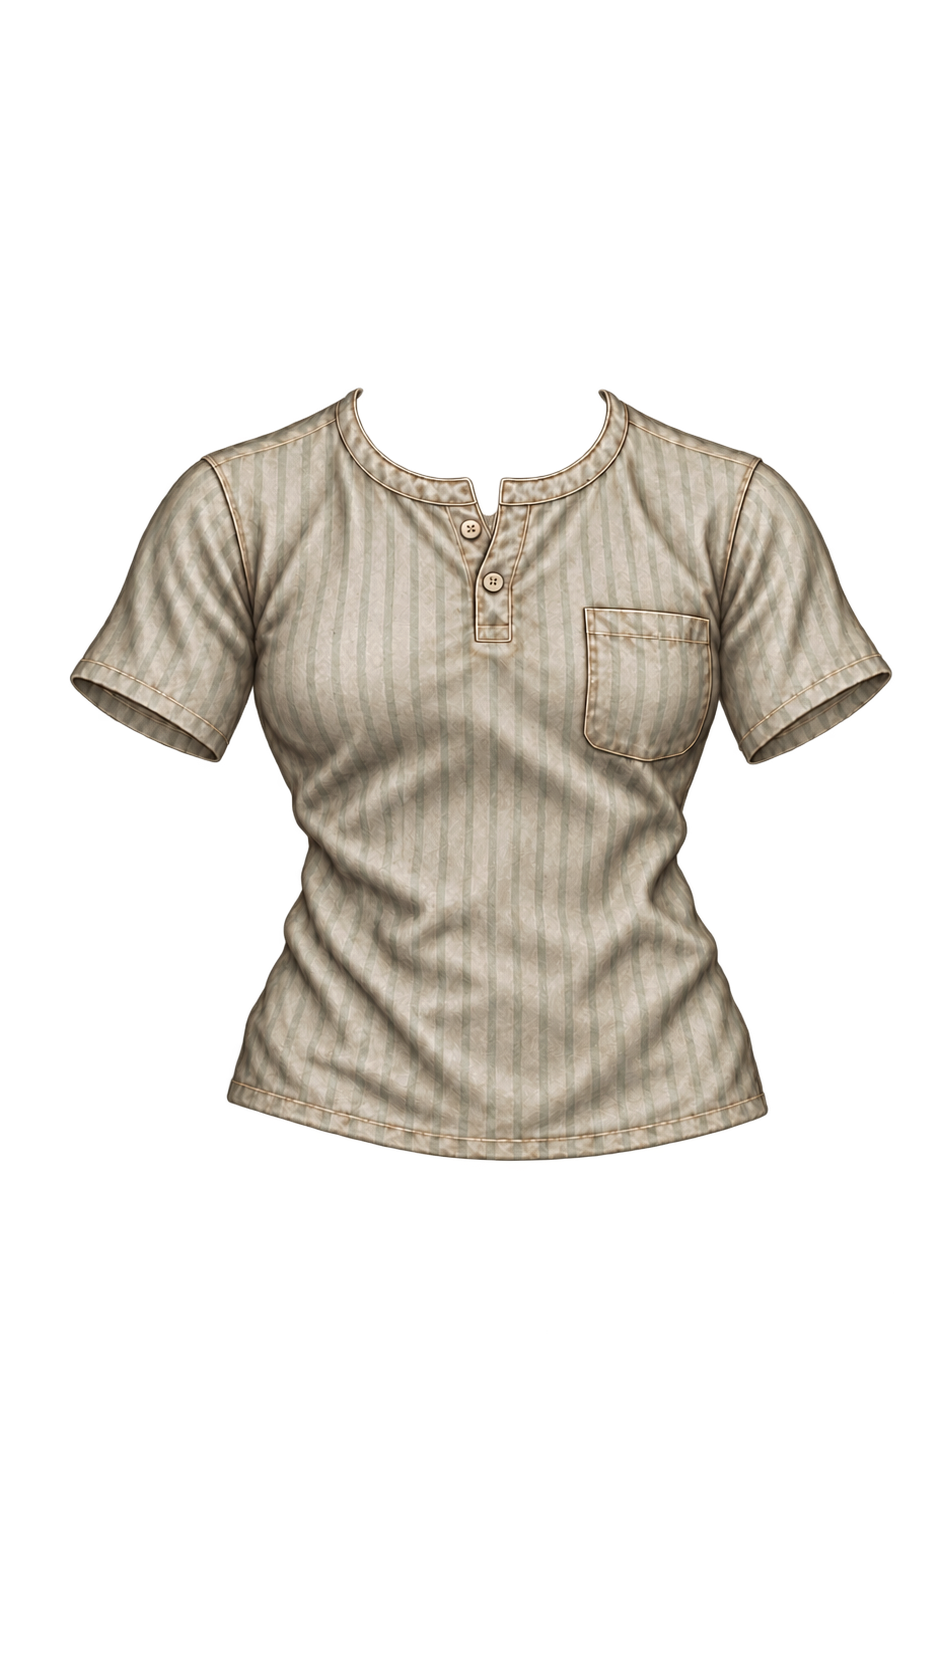
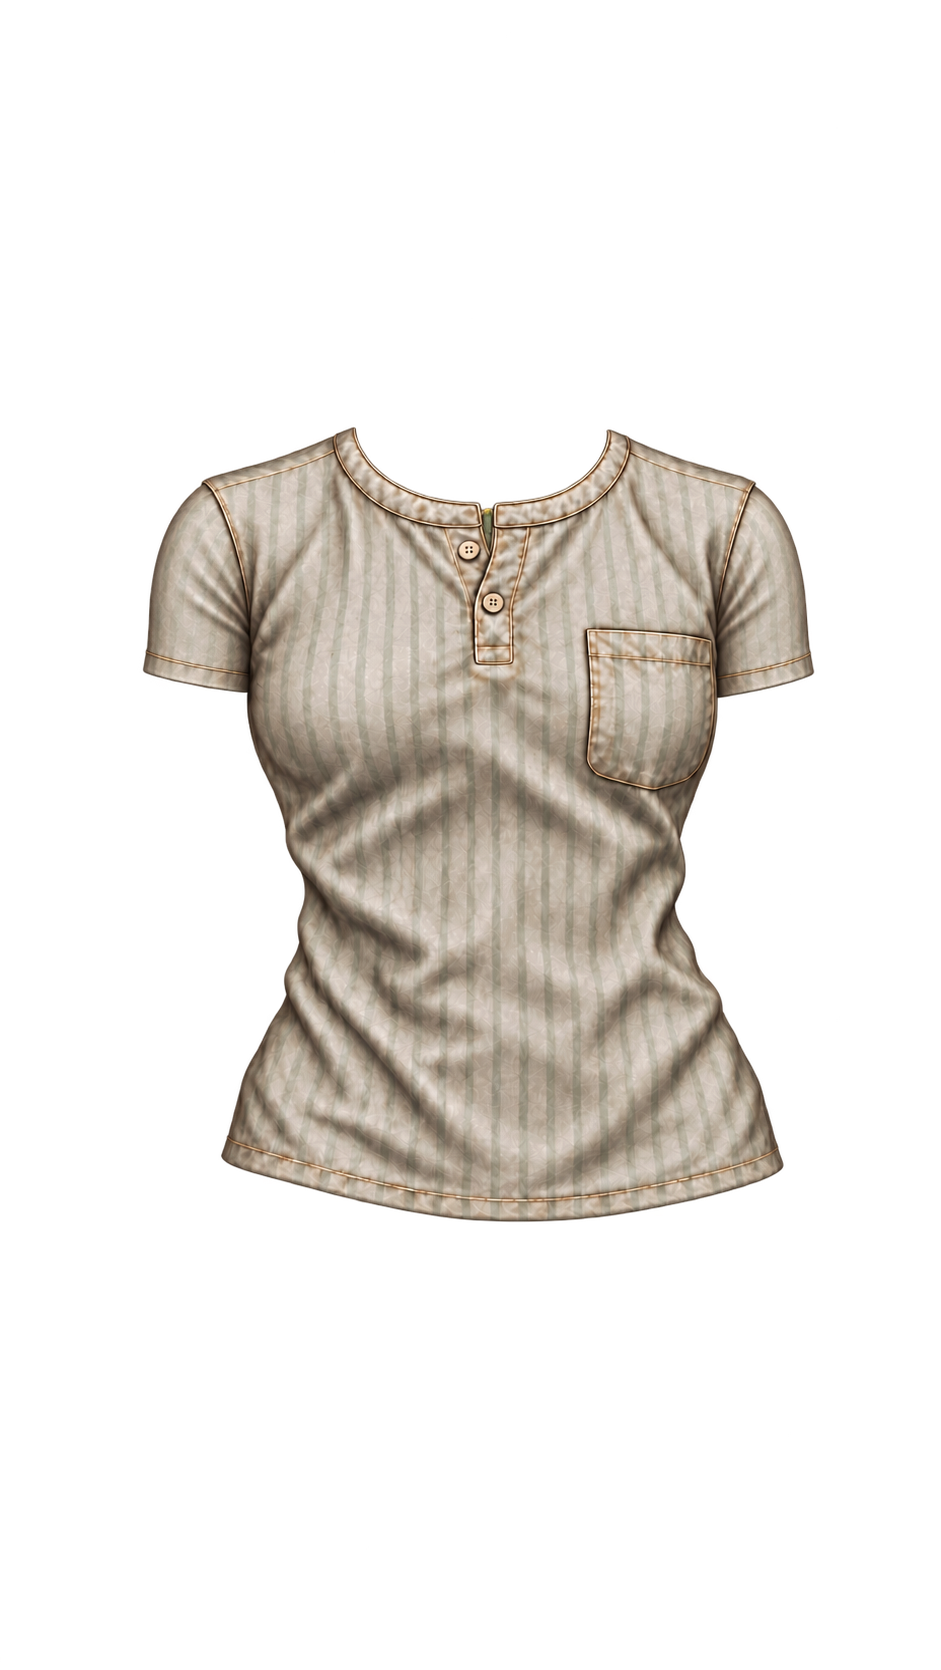
Tailor both hospital shirt sleeves to relaxed arms and smooth female collar

Changed region(s): [[0.0616, 0.218, 0.9554, 0.7473]]

diff --git a/art/hospital-shirt.html b/art/hospital-shirt.html
@@ -20,8 +20,8 @@
     .body { display: block; position: absolute; inset: 0; width: 100%; height: 100%; object-fit: contain; }
     /* Only the new garment is registered. Approved bodies remain unchanged. */
     .shirt { position: absolute; object-fit: contain; }
-    [data-gender="male"] .shirt { left: calc(116 / 941 * 100%); top: calc(-16 / 1672 * 100%); width: calc(706.32 / 941 * 100%); height: calc(1153.44 / 1672 * 100%); }
-    [data-gender="female"] .shirt { left: calc(145 / 941 * 100%); top: calc(-2 / 1672 * 100%); width: calc(639.88 / 941 * 100%); height: calc(1136.28 / 1672 * 100%); }
+    [data-gender="male"] .shirt { left: calc(118 / 941 * 100%); top: calc(-16 / 1672 * 100%); width: calc(707.04 / 941 * 100%); height: calc(1153.44 / 1672 * 100%); }
+    [data-gender="female"] .shirt { left: calc(165 / 941 * 100%); top: calc(-2 / 1672 * 100%); width: calc(609.768 / 941 * 100%); height: calc(1082.16 / 1672 * 100%); }
     .shadow { position: absolute; bottom: -.5%; left: 14%; width: 72%; height: 4.5%; background: radial-gradient(ellipse,#1b251e55,transparent 73%); }
     .note { font-size: 14px; color: #c9bba6; margin-top: 16px; }
     @media (max-width: 650px) { body { padding: 12px; } .models { grid-template-columns: 1fr; } .scene { height: min(680px,125vw); } }
@@ -41,7 +41,7 @@
         <div class="scene"><div class="frame">
           <span class="shadow" aria-hidden="true"></span>
           <img class="body" src="../base_male.png?v=0dec17c1" alt="Затверджена чоловіча модель">
-          <img class="shirt" src="../assets/wardrobe/drafts/hospital_shirt_male.png?v=f5b777c7" alt="Чернетка чоловічої лікарняної сорочки">
+          <img class="shirt" src="../assets/wardrobe/drafts/hospital_shirt_male.png?v=25a2e973" alt="Чернетка чоловічої лікарняної сорочки">
         </div></div>
       </article>
       <article data-gender="female">
@@ -49,7 +49,7 @@
         <div class="scene"><div class="frame">
           <span class="shadow" aria-hidden="true"></span>
           <img class="body" src="../base_female.png?v=5489c78c" alt="Затверджена жіноча модель">
-          <img class="shirt" src="../assets/wardrobe/drafts/hospital_shirt_female.png" alt="Чернетка жіночої лікарняної сорочки">
+          <img class="shirt" src="../assets/wardrobe/drafts/hospital_shirt_female.png?v=29be5b6b" alt="Чернетка жіночої лікарняної сорочки">
         </div></div>
       </article>
     </section>

diff --git a/tests/test_game.py b/tests/test_game.py
@@ -25,14 +25,14 @@ class IconAssetTests(unittest.TestCase):
         for gender in ['male','female']:
             with self.subTest(gender=gender),Image.open(ROOT/f'assets/wardrobe/drafts/hospital_shirt_{gender}.png') as image:
                 self.assertEqual(image.format,'PNG')
-                self.assertEqual(image.size,(981,1602) if gender=='male' else (941,1671))
+                self.assertEqual(image.size,(982,1602) if gender=='male' else (941,1670))
                 self.assertEqual(image.mode,'RGBA')
                 alpha=image.getchannel('A')
                 self.assertEqual(alpha.getextrema(),(0,255))
                 self.assertGreater(alpha.histogram()[0],image.width*image.height/2)
                 bounds=alpha.point(lambda value:255 if value>=64 else 0).getbbox()
                 self.assertGreater(bounds[1],300)
-                self.assertLess(bounds[3],1200)
+                self.assertLess(bounds[3],1250)
 
     def test_approved_body_pngs_have_real_alpha_and_match_the_new_frame(self):
         for name in ['base_male.png','base_female.png']:
@@ -767,24 +767,68 @@ class GameTests(unittest.TestCase):
         for gender in ['male','female']:
             article=self.page.locator(f'[data-gender="{gender}"]')
             self.assertEqual(article.locator('.body').evaluate('e=>[e.naturalWidth,e.naturalHeight]'),[941,1672])
-            self.assertEqual(article.locator('.shirt').evaluate('e=>[e.naturalWidth,e.naturalHeight]'),[981,1602] if gender=='male' else [941,1671])
+            self.assertEqual(article.locator('.shirt').evaluate('e=>[e.naturalWidth,e.naturalHeight]'),[982,1602] if gender=='male' else [941,1670])
             frame=article.locator('.frame').bounding_box()
             self.assertAlmostEqual(frame['width']/frame['height'],941/1672,delta=.001)
             self.assertEqual(article.locator('.shirt').evaluate('e=>getComputedStyle(e).objectFit'),'contain')
         # Canonical points that used to show bare shoulder or rear cuff fabric.
         # Project through the actual DOM image boxes, not a copied CSS offset.
-        coverage=self.page.locator('[data-gender="male"]').evaluate('''article=>{
-            const frame=article.querySelector('.frame').getBoundingClientRect();
-            const layers=['body','shirt'].map(name=>{const image=article.querySelector('.'+name),canvas=document.createElement('canvas');canvas.width=image.naturalWidth;canvas.height=image.naturalHeight;const context=canvas.getContext('2d');context.drawImage(image,0,0);return{rect:image.getBoundingClientRect(),context,width:image.naturalWidth,height:image.naturalHeight}});
-            const read=([x,y])=>layers.map(layer=>{const px=Math.round((frame.x+x/941*frame.width-layer.rect.x)/layer.rect.width*layer.width),py=Math.round((frame.y+y/1672*frame.height-layer.rect.y)/layer.rect.height*layer.height);return px>=0&&py>=0&&px<layer.width&&py<layer.height?layer.context.getImageData(px,py,1,1).data[3]:0});
-            return{shoulder:[[632,310],[654,320],[670,330]].map(read),cuffs:[[242,524],[258,530],[277,539],[700,531],[675,545],[660,551]].map(read)};
-        }''')
-        for body,cloth in coverage['shoulder']:
-            self.assertGreaterEqual(body,200)
-            self.assertGreaterEqual(cloth,240)
-        for body,cloth in coverage['cuffs']:
-            self.assertGreaterEqual(body,200)
-            self.assertLessEqual(cloth,5)
+        for gender in ['male','female']:
+            with self.subTest(shirt_fit=gender):
+                coverage=self.page.locator(f'[data-gender="{gender}"]').evaluate('''article=>{
+                    const gender=article.dataset.gender,frame=article.querySelector('.frame').getBoundingClientRect();
+                    const layers=['body','shirt'].map(name=>{const image=article.querySelector('.'+name),canvas=document.createElement('canvas');canvas.width=image.naturalWidth;canvas.height=image.naturalHeight;const context=canvas.getContext('2d');context.drawImage(image,0,0);return{rect:image.getBoundingClientRect(),pixels:context.getImageData(0,0,canvas.width,canvas.height).data,width:image.naturalWidth,height:image.naturalHeight}});
+                    const read=([x,y])=>layers.map(layer=>{const px=Math.round((frame.x+x/941*frame.width-layer.rect.x)/layer.rect.width*layer.width),py=Math.round((frame.y+y/1672*frame.height-layer.rect.y)/layer.rect.height*layer.height);return px>=0&&py>=0&&px<layer.width&&py<layer.height?layer.pixels[(py*layer.width+px)*4+3]:0});
+                    const runs=(y,layer)=>{
+                        const result=[];let start=null;
+                        for(let x=0;x<=941;x++){
+                            const opaque=x<941&&read([x,y])[layer]>=128;
+                            if(opaque&&start===null)start=x;
+                            if(!opaque&&start!==null){if(x-start>=3)result.push([start,x-1]);start=null;}
+                        }
+                        return result;
+                    };
+                    const edges=(y,layer)=>{const row=runs(y,layer);return row.length?[row[0][0],row.at(-1)[1]]:null;};
+                    const contour=[];
+                    for(let y=gender==='male'?440:400;y<=(gender==='male'?475:430);y+=5)contour.push({y,body:edges(y,0),cloth:edges(y,1)});
+                    const armCoverage=[0,1].map(side=>{
+                        let covered=0,total=0;
+                        for(let y=gender==='male'?370:350;y<=(gender==='male'?450:410);y+=10){
+                            const body=edges(y,0),start=side===0?body[0]:body[1]-59;
+                            for(let x=start;x<start+60;x++){const [skin,cloth]=read([x,y]);if(skin>=200){total++;if(cloth>=200)covered++;}}
+                        }
+                        return{covered,total};
+                    });
+                    const collar=[];
+                    if(gender==='female')for(let y=260;y<=290;y+=5)collar.push({y,body:edges(y,0),cloth:edges(y,1)});
+                    const shoulder=gender==='male'?[[632,310],[654,320],[670,330]]:[[293,320],[304,330],[647,320],[660,330]];
+                    const cuffs=gender==='male'?[[242,524],[258,530],[277,539],[700,531],[675,545],[660,551]]:[[279,472],[308,480],[331,490],[668,472],[643,480],[639,490]];
+                    return{shoulder:shoulder.map(read),cuffs:cuffs.map(read),contour,armCoverage,collar};
+                }''')
+                for body,cloth in coverage['shoulder']:
+                    self.assertGreaterEqual(body,200)
+                    self.assertGreaterEqual(cloth,240)
+                for body,cloth in coverage['cuffs']:
+                    self.assertGreaterEqual(body,200)
+                    self.assertLessEqual(cloth,5)
+                # Constrain the entire lower sleeve edge, so wing-shaped cuffs
+                # cannot pass by merely covering a few selected arm pixels.
+                for row in coverage['contour']:
+                    self.assertIsNotNone(row['body'],row)
+                    self.assertIsNotNone(row['cloth'],row)
+                    body_left,body_right=row['body'];cloth_left,cloth_right=row['cloth']
+                    self.assertGreaterEqual(cloth_left,body_left-18,row)
+                    self.assertLessEqual(cloth_left,body_left+3,row)
+                    self.assertGreaterEqual(cloth_right,body_right-3,row)
+                    self.assertLessEqual(cloth_right,body_right+18,row)
+                for arm in coverage['armCoverage']:
+                    self.assertGreater(arm['total'],0)
+                    self.assertGreaterEqual(arm['covered']/arm['total'],.85)
+                for row in coverage['collar']:
+                    if row['cloth'] is None:
+                        continue
+                    self.assertGreaterEqual(row['cloth'][0],row['body'][0]-8,row)
+                    self.assertLessEqual(row['cloth'][1],row['body'][1]+8,row)
         results=ROOT/'test-results';results.mkdir(exist_ok=True)
         self.page.set_viewport_size({'width':1280,'height':1000})
         for mode in ['patient','combat']:
@@ -804,18 +848,24 @@ class GameTests(unittest.TestCase):
         self.page.set_viewport_size({'width':1280,'height':1200})
         self.page.evaluate('''()=>{
             document.querySelector('.models').style.gridTemplateColumns='941px';
-            document.querySelector('[data-gender="female"]').style.display='none';
-            document.querySelector('[data-gender="male"] .scene').style.height='1968px';
-            document.querySelector('[data-gender="male"] .frame').style.height='1672px';
+            document.querySelectorAll('article[data-gender]').forEach(article=>{
+                article.querySelector('.scene').style.height='1968px';
+                article.querySelector('.frame').style.height='1672px';
+            });
         }''')
-        for mode in ['patient','combat']:
-            self.page.locator(f'button[data-mode="{mode}"]').click()
-            frame=self.page.locator('[data-gender="male"] .frame').bounding_box()
-            clip={'x':frame['x']+140,'y':frame['y']+240,'width':660,'height':340}
-            self.page.screenshot(path=str(results/f'male-shirt-fit-detail-{mode}.png'),clip=clip)
-            if os.getenv('GITHUB_ACTIONS')=='true':
-                preview=self.page.screenshot(type='jpeg',quality=85,clip=clip)
-                print('PATIENT_SHIRT_ART_DETAIL:'+json.dumps({'name':f'male-shirt-fit-detail-{mode}','jpeg':base64.b64encode(preview).decode()},separators=(',',':')),flush=True)
+        for gender in ['male','female']:
+            self.page.evaluate('''gender=>document.querySelectorAll('article[data-gender]').forEach(article=>{
+                article.style.display=article.dataset.gender===gender?'':'none';
+            })''',gender)
+            for mode in ['patient','combat']:
+                self.page.locator(f'button[data-mode="{mode}"]').click()
+                self.page.evaluate('''mode=>new Promise((resolve,reject)=>{const image=new Image();image.onload=resolve;image.onerror=()=>reject(new Error('Preview background failed'));image.src=mode==='combat'?'../wardrobe_background_v2.png?v=639ad612':'../wardrobe_background.png?v=d490c304';})''',mode)
+                frame=self.page.locator(f'[data-gender="{gender}"] .frame').bounding_box()
+                clip={'x':frame['x']+140,'y':frame['y']+240,'width':660,'height':340}
+                self.page.screenshot(path=str(results/f'{gender}-shirt-fit-detail-{mode}.png'),clip=clip)
+                if os.getenv('GITHUB_ACTIONS')=='true':
+                    preview=self.page.screenshot(type='jpeg',quality=85,clip=clip)
+                    print('PATIENT_SHIRT_ART_DETAIL:'+json.dumps({'name':f'{gender}-shirt-fit-detail-{mode}','jpeg':base64.b64encode(preview).decode()},separators=(',',':')),flush=True)
 
     def test_trial_faces_are_not_loaded_or_selectable_after_old_save_migration(self):
         requests=[]

diff --git a/docs/patient-clothing-art.md b/docs/patient-clothing-art.md
@@ -4,8 +4,8 @@
 
 | Варіант | Ресурс | Фактичний розмір | Канали |
 | --- | --- | --- | --- |
-| Чоловік | `assets/wardrobe/drafts/hospital_shirt_male.png` | 981×1602 | RGBA, alpha 0–255 |
-| Жінка | `assets/wardrobe/drafts/hospital_shirt_female.png` | 941×1671 | RGBA, alpha 0–255 |
+| Чоловік | `assets/wardrobe/drafts/hospital_shirt_male.png` | 982×1602 | RGBA, alpha 0–255 |
+| Жінка | `assets/wardrobe/drafts/hospital_shirt_female.png` | 941×1670 | RGBA, alpha 0–255 |
 
 Оригінали генерації збережені окремо; у репозиторій скопійовано вибрані чернетки без редагування байтів. Затверджені бази 941×1672, фони, ігровий каталог, інвентар, характеристики та збереження не змінені. Чернетки не видаються гравцю як нові предмети.
 
@@ -15,8 +15,8 @@
 
 | Варіант | x | y | width | height |
 | --- | --- | --- | --- | --- |
-| Чоловік | 116 | -16 | 706.32 | 1153.44 |
-| Жінка | 145 | -2 | 639.88 | 1136.28 |
+| Чоловік | 118 | -16 | 707.04 | 1153.44 |
+| Жінка | 165 | -2 | 609.768 | 1082.16 |
 
 Це попереднє припасування на сторінці арту, не нова логіка Paper Doll. Фактичні PNG генерації мають окремі розміри, вказані вище, й ще не є фінальними шарами з нульовим розміщенням на полотні 941×1672. До підключення в ігровий каталог потрібні фіналізація реєстрації полотна та перевірка поєднання з майбутніми штанами, бронею й іншими речами. Повторно масштабувати базові моделі або пересувати колонки для цієї примірки не потрібно.
 
@@ -25,8 +25,10 @@
 Після оцінки першого крою — лікарняні штани й взуття, потім шолом та БР-1. Для зброї зберігається потреба в окремому якісному хваті / передніх шарах рук. Сорочку й штани готувати незалежними шарами, щоб їх можна було комбінувати.
 
 
-## Чоловіче плече та рукави — виправлення першої примірки
+## Рукави обох моделей і жіноча горловина
 
-Чоловічий PNG перегенеровано як передню тканинну накладку під затверджену опущену позу рук. Край правого плеча з боку глядача закриває колишні оголені ділянки; форма коротких рукавів та нижні манжети виправлені. Темні внутрішні / задні овали рукавів прибрані з переднього PNG: ці частини не повинні малюватися поверх рук. Під передньою манжетою прозорість відкриває справжню руку базового PNG. Нові руки або копії шкіри в накладку не додані. Жіночий ресурс залишений без змін.
+Обидва PNG перегенеровано як передні тканинні накладки під затверджену опущену позу рук. Широкі розкльошені рукави замінені коротшими прямими рукавами: зовнішній край іде вздовж верхньої частини руки. У нижній частині до манжети залишено не більше 18 px свободи тканини від контуру руки на полотні тіла 941×1672. Колишні виступи становили приблизно 40–49 px у чоловіка та 69–76 px у жінки. Задні овали рукавів не малюються поверх шкіри. Під передньою манжетою прозорість відкриває справжню руку базового PNG. Нові руки або копії шкіри в накладку не додані. Жіноча горловина стала нижчою й округлою, без високих загострень.
 
-Примірка застосовує пропорційне розміщення нового джерела 981×1602 у рамці 941×1672. URL чоловічої тканини містить версію Git blob для обходу старого кешу. Браузерний тест читає альфа-пікселі через фактичне DOM-розміщення: перевіряє покриття трьох контрольних точок правого плеча і прозорість колишніх задніх манжет над обома руками. Це перевірка перекриття тканини, а не лише того, що PNG завантажився.
+Примірка зберігає пропорції кожного джерела й використовує окрему реєстрацію тканини, наведену вище. Жіночий ресурс після генерації потребував нового рівномірного масштабу 0.648; це повертає його талію до попередньої нижньої точки приблизно y790. Чоловічий масштаб залишається 0.72. URL обох PNG містять версії Git blob для обходу старого кешу.
+
+Браузерний тест читає альфа-пікселі через фактичне DOM-розміщення обох моделей: перевіряє плечі, відкриті руки під манжетами, покриття верхньої частини рук, зовнішній контур нижніх рукавів і відсутність високих виступів жіночої горловини. Крупні плани в масштабі джерела зберігаються для обох статей у режимах «Пацієнт» і «Трип». Ці перевірки доповнюють візуальний огляд; сам факт завантаження PNG не підтверджує правильний крій.
